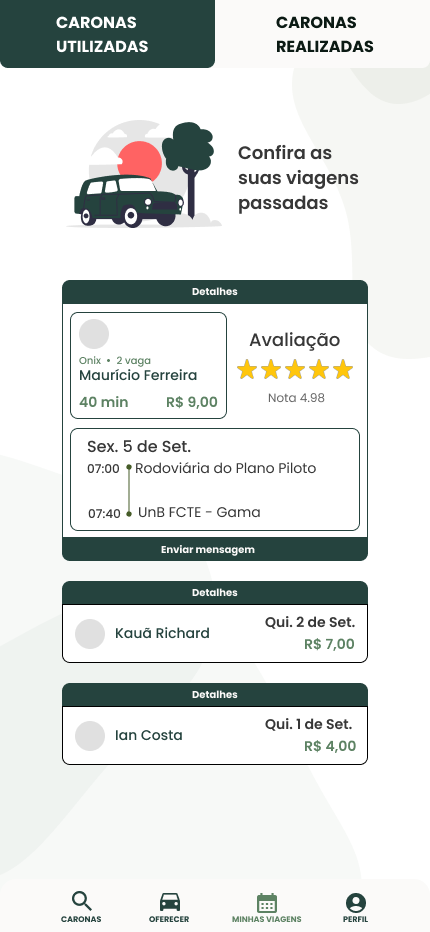
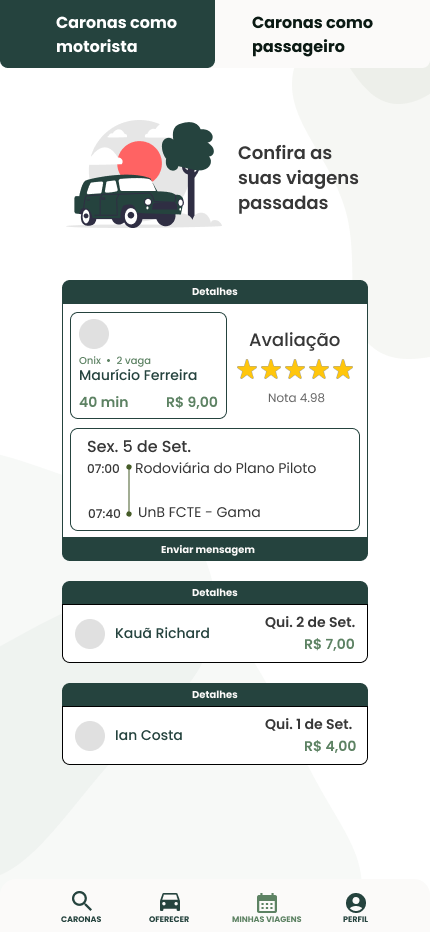
att/correcoes na secao do prototipo

Changed region(s): [[0.5744, 0.0, 0.8767, 0.0622], [0.1209, 0.0, 0.4233, 0.0622]]

diff --git a/docs/Base/1.1.DesignSprint.md b/docs/Base/1.1.DesignSprint.md
@@ -195,8 +195,8 @@ Iniciamos a fase de **Prototipação** após a etapa 3, com o auxílio dos artef
 </details>
 
 
-- **Tela 6: Minhas viagens (Caronas utilizadas) - Usuário logado**
-    - ***Descrição:*** Histórico do passageiro (aba ativa). Cartão Detalhes com motorista (foto/nome), veículo/vagas, Avaliação (estrelas/nota), itinerário (data/horas, origem→destino), duração e preço, além de Enviar mensagem. Lista abaixo resume outras viagens com motorista, data e valor. Rodapé padrão, Minhas viagens ativo.
+- **Tela 6: Minhas Viagens (Caronas como motorista) - Usuário logado**
+    - ***Descrição:*** Histórico do motorista. Mostra a viagem mais recente em Detalhes (veículo/vagas, duração, preço, avaliação e itinerário: data/horas, origem→destino) com Enviar mensagem; abaixo, cartões resumidos de viagens anteriores (nome, data, valor). Rodapé: Minhas viagens ativo.
     - ***Observações:*** Nenhuma por enquanto.
 <details style="margin-bottom: 20px;">
     <summary><strong>Protótipo: Tela de oferecer caronas</strong></summary>
@@ -204,9 +204,8 @@ Iniciamos a fase de **Prototipação** após a etapa 3, com o auxílio dos artef
 </details>
 
 
-- **Tela 7: Minhas viagens (Caronas realizadas) - Usuário logado**
-    - ***Descrição:*** Histórico do motorista (aba ativa). Cartão Detalhes do passageiro destaca a última corrida: rótulo Passageiro, nome, valor e itinerário (data/horas, origem→destino). Demais cartões listam outros passageiros com data e valor. Rodapé padrão, Minhas viagens ativo.
-    - ***Observações:*** Nenhuma por enquanto.
+- **Tela 7: Minhas Viagens (Caronas como passageiro) - Usuário logado**
+    - ***Descrição:*** Histórico do passageiro. Cartões Detalhes do passageiro trazem selo Passageiro, nome, valor e itinerário (data/horas, origem→destino); a lista inferior resume outros registros com nome, data e valor. Rodapé: Minhas viagens ativo.
 <details style="margin-bottom: 20px;">
     <summary><strong>Protótipo: Tela de oferecer caronas</strong></summary>
     <p style="text-align: center;"><img src="../assets/design_sprint/prototipo/telaminhasviagens2.png" style="max-width: 100%; height: auto; margin-top: 10px;" /></p>
